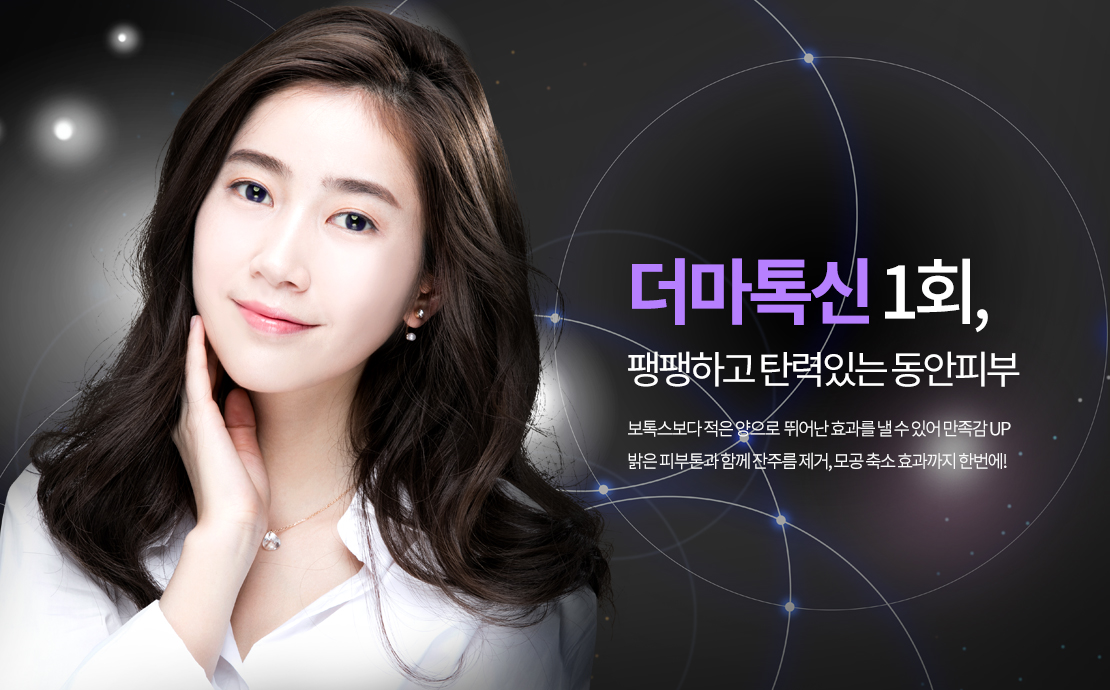
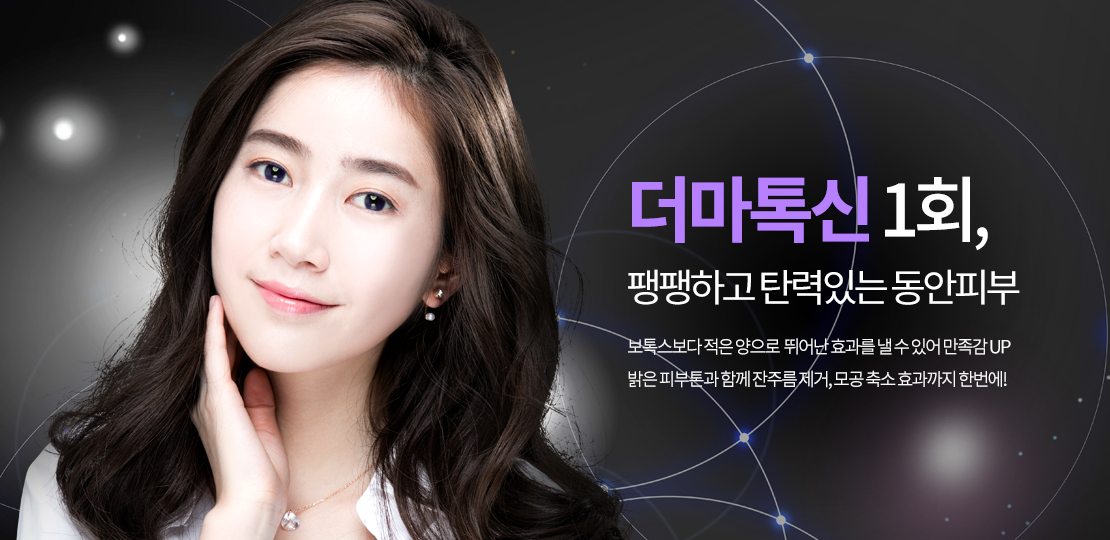
login&signup templates reactiveness

diff --git a/accounts/templates/accounts/login.html b/accounts/templates/accounts/login.html
@@ -1,4 +1,4 @@
-{% extends "account/base.html" %}
+{% extends "../account_base.html" %}
 {% load i18n %}
 {% load staticfiles %}
 {% load socialaccount %}
@@ -37,6 +37,8 @@
 	border-color:#3b5998;
 }
 .form_label{
+		width:100px;
+		float:left;
     border-radius: 5px;
     padding:1.5%;
     color : white;
@@ -56,36 +58,53 @@
     padding:1px;
     margin: 5%;
 }
+@media screen and (max-width: 767px){
+	.login_form{
+    width : 180px;
+    margin : 0 auto;
+}
+	h4{
+		font-size:13pt;
+	}
+	.form_label{
+		margin-bottom:5px;
+	}
+}
 </style>
 {% endblock %}
+{% block semi_title %}
+로그인
+{% endblock %}
 
-{% block content %}
+{% block sub_title %}
+HOME > 로그인
+{% endblock %}
 
-
-<center>
-<div id="content">
-    <h1>로그인</h1>
-		<form action="" method="POST" enctype="multipart/form-data">
+{% block social_login %}
+<form action="" method="POST" enctype="multipart/form-data" class="col-xs-42">
+		<div class="col-sm-30 col-sm-offset-6 paddingtop30" style="border-top:3px solid black;">
 		    {% get_providers as providers %} {% for provider in providers %}
-		    <a title="{{ provider.name }}" href="{% provider_login_url provider.id process='login' scope=scope auth_params=auth_params %}" class="btn btn-social btn-{{ provider.id }}">
+		    <a title="{{ provider.name }}" href="{% provider_login_url provider.id process='login' scope=scope auth_params=auth_params %}" class="btn btn-social btn-{{ provider.id }} col-sm-21 col-xs-42">
 		            <h4 style="text-transform: uppercase;">{{ provider.name }} 계정으로 로그인</h4>
 		    </a>
 		    {% endfor %}
+		</div>
 		</form>
+{% endblock %}
 
-
+{% block form_content %}
+	<div class="col-xs-42">
     <form action="." method="post" id="general_login" class="login_form">
-        {% csrf_token %} {% if form.errors %}
+        {% csrf_token %}
+        {% if form.errors %}
         <p class="errornote">사용자 정보를 다시 입력해주십시오.</p>
         {% endif %}
-        <fieldset class="aligned">
             <div class="form-row">
                 <span class="form_label">회원 ID</span> {{form.username}}
             </div>
             <div class="form-row">
                 <span class="form_label">비밀번호</span> {{form.password}}
             </div>
-        </fieldset>
         <div class="submit-row">
             <input type="submit" value="Log In" />
             <!-- <input type = "hidden" name = "next" value="{{next}}"/>  이거 주석처리해서 아까 settings.py에 있는 곳으로 기본
@@ -95,6 +114,6 @@
         document.getElementById('id_username').focus();
         </script>
     </form>
-</div>
-</center>
+  </div>
+
 {% endblock %}

diff --git a/accounts/templates/accounts/signup.html b/accounts/templates/accounts/signup.html
@@ -1,4 +1,4 @@
-{% extends "base.html" %}
+{% extends "../account_base.html" %}
 {% block css %}
 <style>
 .errorlist li ul{
@@ -17,11 +17,14 @@
     margin: 5%;
 }
 .form_label{
+		width:100px;
+		float:left;
     border-radius: 5px;
     padding:1.5%;
     color : white;
     background-color: lightgray;
 }
+
 input[type=submit] {
     color:white;
     padding:5px 15px;
@@ -31,13 +34,35 @@ input[type=submit] {
     -webkit-border-radius: 5px;
     border-radius: 5px;
 }
+@media screen and (max-width: 767px){
+	.signup_form{
+    width : 180px;
+    margin : 0 auto;
+}
+	h4{
+		font-size:13pt;
+	}
+	.form_label{
+		margin-bottom:5px;
+	}
+}
 </style>
 {% endblock %}
-{% block content %}
+
+{% block semi_title %}
+회원가입
+{% endblock %}
+
+{% block sub_title %}
+HOME > 회원가입
+{% endblock %}
+
+{% block form_content %}
     <div id = "content" class="signup_form">
-        <center><h1> 회원가입</h1>
+
         <form method="post" action=".">
         {% csrf_token %}
+            <fieldset class="margintop20" style="border-top:3px solid black;">
             {% if form.errors %}
                 {% for field in form %}
                     {% if field.errors %}
@@ -49,10 +74,7 @@ input[type=submit] {
                 {% endfor %}
             {% endif %}
             <br/>
-            <p>아래의 양식을 기입해주세요.</p>
-            </center>
-            <fieldset class="aligned">
-                <div class="form-row">
+                <div class="form-row" >
                     <!-- {{form.username.label_tag}} {{form.username}} -->
                     <span class="form_label">회원 ID</span> {{form.username}}
                 </div>

diff --git a/main/templates/main_imgslider2.html b/main/templates/main_imgslider2.html
@@ -11,12 +11,12 @@ new(function(){});var d={cd:function(a){return a},Ed:function(a){return-a*(a-2)}
 <style>
 .jssorb11{position:absolute}.jssorb11 div,.jssorb11 div:hover,.jssorb11 .av{position:absolute;width:16px;height:16px;background:url('{% static 'img/main/b10.png' %}') no-repeat;overflow:hidden;cursor:pointer}.jssorb11 div{background-position:-8px -9px}.jssorb11 div:hover,.jssorb11 .av:hover{background-position:-39px -9px}.jssorb11 .av{background-position:-69px -9px}.jssorb11 .dn,.jssorb11 .dn:hover{background-position:-99px -9px}
 </style>
-<div id="jssor_1" style="position:relative;left:0px;width:1110px;height:690px;overflow:hidden;visibility:hidden;background-color:#ffffff;">
+<div id="jssor_1" style="position:relative;left:0px;width:1110px;height:540px;overflow:hidden;visibility:hidden;background-color:#ffffff;">
 <!-- Loading Screen -->
 <div data-u="loading" style="position: absolute; top: 0px; left: 0px;">
 <div style="filter: alpha(opacity=70); opacity: 0.7; position: absolute; display: block; top: 0px; left: 0px; width: 100%; height: 100%;"></div>
 </div>
-<div data-u="slides" style="cursor:default;position:relative;top:0px;left:0px;width:1110px;height:690px;overflow:hidden;">
+<div data-u="slides" style="cursor:default;position:relative;top:0px;left:0px;width:1110px;height:540px;overflow:hidden;">
 <div>
 <img data-u="image" src="{% static 'img/main/visual1.jpg' %}" />
 </div>

diff --git a/accounts/templates/account_base.html b/accounts/templates/account_base.html
@@ -1,0 +1,29 @@
+{% extends 'base.html' %}
+{% load i18n %}
+{% load staticfiles %}
+{% load socialaccount %}
+{% block css %}
+{% endblock %}
+
+{% block content %}
+<div class="container-fluid">
+	<div class="col-md-42 content-title margintop50">
+		<div class="semi_title">
+			{% block semi_title %} {% endblock %}
+		</div>
+		<div class="sub_title">
+			{% block sub_title %} {% endblock %}
+		</div>
+	</div>
+
+	<div class="col-md-38 col-md-offset-2 margintop30">
+		<div class="row">
+			{% block social_login %} {% endblock %}
+		</div>
+		<div class="row">
+			{% block form_content %} {% endblock %}
+		</div>
+	</div>
+</div>
+
+{% endblock %}

diff --git a/main/templates/main.html b/main/templates/main.html
@@ -10,7 +10,7 @@
     	</div>
 
 			<div class="col-sm-42 md30 hidden-xs">
-				<img src="{% static 'img/main/visual4.jpeg' %}" class="img-responsive minmax">
+				<img src="{% static 'img/main/visual4.jpg' %}" class="img-responsive minmax">
 			</div>
 		</div>
 		<div class="col-sm-42 col-xs-42">
